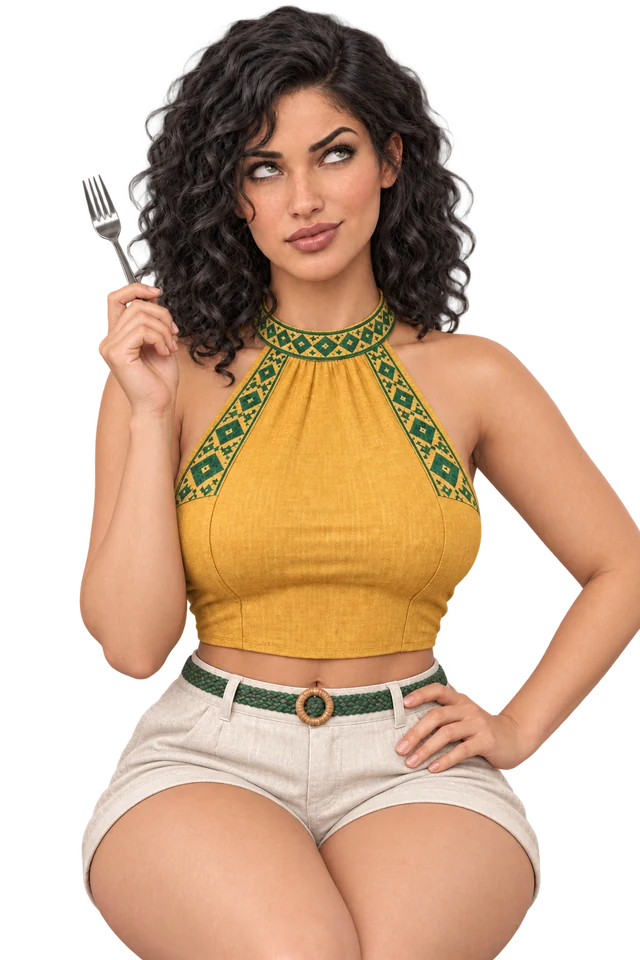
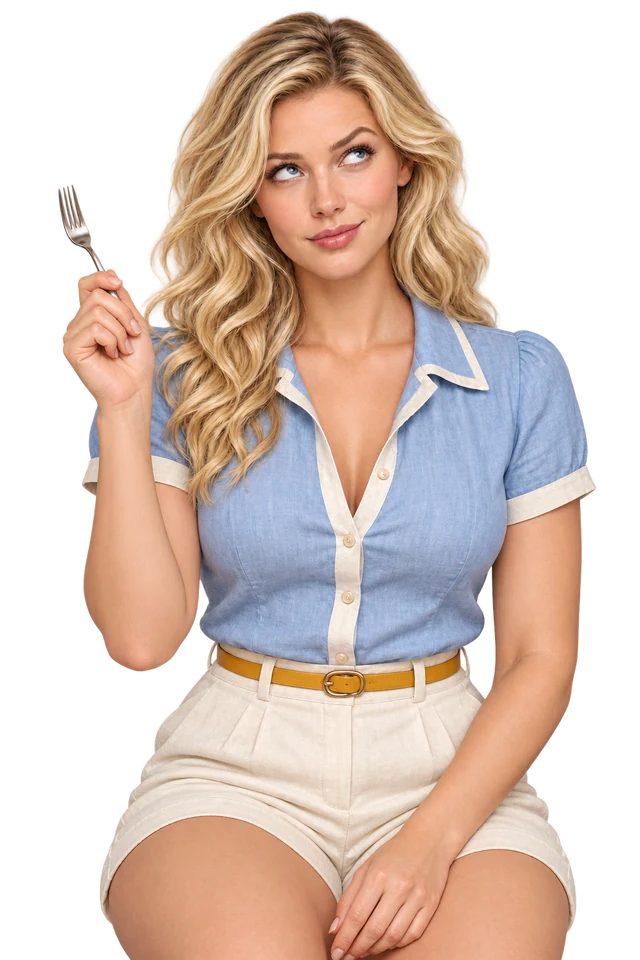
Redesigned Leila and Nora: new sprites, Nora's startled/eat/laugh/shoo2 poses, Leila falls back to seated angry

diff --git a/assets/characters/leila/identity.md b/assets/characters/leila/identity.md
@@ -1,10 +1,11 @@
-# Leila
+# Leila — replacement design
 
-- **Age:** 27
-- **Gender:** Woman
-- **Personality:** Confident, observant, precise, and dryly funny. A competitive university lecturer who treats a fly as a minor academic scandal. Anger stays cool and articulate; she corrects people with a raised finger rather than shouting.
-- **Visual identity:** Warm olive complexion, hazel-green eyes, shoulder-length black curls, curvy athletic build.
-- **Outfit:** Saffron-gold embroidered halter crop top, ivory linen shorts, green woven waistband.
-- **Distinctive movement:** economical, precise gestures; a fingertip to the temple when hurt, a two-finger nose pinch when disgusted, and a compact one-arm victory pump. Her signature reaction is an upward eye-roll with a fork held aloft.
-- **Food cue:** a red strawberry and a small piece of pale cake on her fork.
-- **Sprite contract:** transparent 1024 x 1536 PNGs, with identity, hair, outfit, lighting, and camera held steady while each pose gets its own posture and hand language.
+- **Age:** 27; adult woman.
+- **Personality:** A confident, exacting university lecturer with dry humor. She turns annoyance into a composed correction, a measured eyebrow, or a crisp lecturer's gesture rather than shouting.
+- **Original visual identity:** Fair neutral skin with light freckles; clear blue eyes; an original heart-shaped face with softly full cheeks and a small straight nose. Not a replica of any real person. Her broad inspiration is Sydney Sweeney's polished blonde-screen-presence: long warm blonde waves, bright eyes, and soft, expressive features. Her facial proportions remain original.
+- **Hair and silhouette:** Long honey-blonde hair, loose defined waves with a side part; polished but not elaborate. Curvy athletic build and upright posture.
+- **Outfit:** Light sky-blue short-sleeve linen blouse with a modest open collar and fine cream piping, tucked into high-waisted warm-ivory summer shorts with a narrow saffron belt; small gold stud earrings. Fully clothed, breathable hot-weather styling.
+- **Distinctive movement:** Economical, deliberate hand language; one precise raised index finger when correcting someone, a pinched bridge-of-nose gesture when disgusted, a controlled tabletop brace when angry, and a restrained one-arm victory pump. Her signature pose is a knowing upward eye-roll with a fork held aloft.
+- **Food cue:** One strawberry piece and a small pale cake bite on the fork.
+- **Sprite contract:** Transparent 1024 x 1536 PNGs; seated poses share identical crop and scale, with head, torso to the waist, and both hands visible. Standing images retain the same width and framing language. Lock face, hair, outfit, lighting, and camera across every pose; vary only the pose and expression.
+- **Handoff note:** `leila_stand_angry` is intentionally omitted: generation was refused twice, and the previous frame depicted the retired brunette design. The game falls back to Leila's seated `angry` pose until a matching standing frame is supplied. The retired source is preserved as `leila_stand_angry_legacy.png` in the handoff output folder.

diff --git a/assets/characters/nora/identity.md b/assets/characters/nora/identity.md
@@ -1,10 +1,10 @@
-# Nora
+# Nora — replacement design
 
-- **Age:** 24
-- **Gender:** Woman
-- **Personality:** Gentle, curious, and idealistic about the environment. She is easily startled and reluctant to hurt the fly, then uses soft, deadpan humor to recover from awkward moments.
-- **Visual identity:** Fair freckled complexion, green eyes, wavy copper-auburn bob, curvy petite build.
-- **Outfit:** Lilac floral-embroidered crop top and pale-sage linen shorts.
-- **Distinctive movement:** small, inward gestures; raised shoulders and half-raised hands when surprised, a careful nose-scrunch when disgusted, and a shy laugh behind her knuckles. Her anger is hesitant and incredulous rather than forceful; she celebrates with a little chest-level clap.
-- **Food cue:** one bright cherry tomato on her fork.
-- **Sprite contract:** transparent 1024 x 1536 PNGs, with identity, hair, outfit, lighting, and camera held steady while each pose gets its own posture and hand language.
+- **Age:** 26; adult woman.
+- **Personality:** A calm, observant urban-garden volunteer who dislikes harming small creatures. She notices details others miss and answers chaos with quiet, wry remarks. Her surprise is open and quick; her anger is a steady disappointed stare, never Marisol's loud challenge or Leila's lecturer's scolding.
+- **Original visual identity:** Deep warm-brown skin; dark brown almond-shaped eyes; an original long oval face with high cheekbones and softly squared jaw. Broad inspiration is Zendaya's elegant screen presence and expressive eyes, while Nora's face and styling are distinct and fictional.
+- **Hair and silhouette:** Dense natural black curls in a rounded shoulder-length shape with subtle copper-brown highlights; no braids or ponytail. Tall, lean build with relaxed shoulders and a long neck.
+- **Outfit:** Sleeveless deep-coral linen camp shirt with a short collar and small coconut buttons, worn with high-waisted dark-teal linen shorts and a thin ochre belt; tiny brass hoop earrings. Light summer clothing, fully clothed.
+- **Distinctive movement:** Curious forward lean; hands hover protectively around her plate; a soft palm-out shoo instead of a swat; a small dry shrug when laughing; a quiet one-hand table brace when angry; a brief, compact clap when cheering. Her signature startled pose raises both palms near shoulder height with a wry half-smile, as if saying “well, that happened.”
+- **Food cue:** A small falafel bite with a cucumber slice on the fork, visibly unlike Leila's strawberry-and-cake bite.
+- **Sprite contract:** Transparent 1024 x 1536 PNGs; seated poses share identical crop and scale, with head, torso to the waist, and both hands visible. Standing images retain the same width and framing language. Lock face, hair, outfit, lighting, and camera across every pose; vary only the pose and expression.
